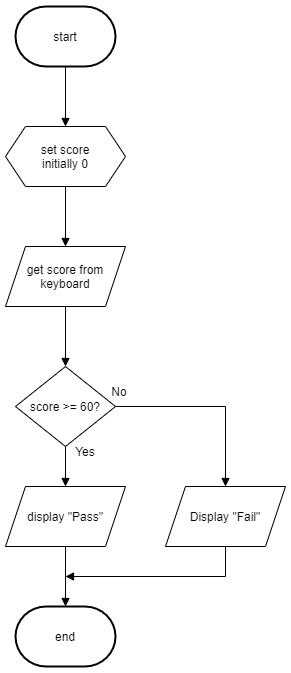
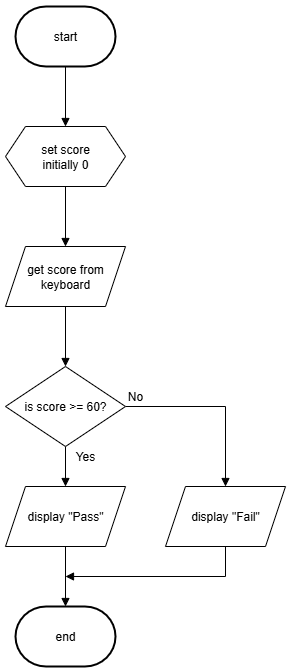
Updated

diff --git a/n5-cs/sdd/N5-SDD-Result/index2.md b/n5-cs/sdd/N5-SDD-Result/index2.md
@@ -1,33 +1,53 @@
-# N5 SDD - Test Result v2
+# N5 SDD - Test Result
 
 ## Introduction
 
-A user wants an automatic decision system that will classify a test score as either a '__Pass__' or a '__Fail__'.  Only scores from ___0___ to ___100___ are to be accepted.  A score of 60 or more is a pass, and anything else as a fail.
+A user wants an automatic decision system that will classify a test score as either a '__Pass__' or a '__Fail__'.  A score of 60 or more is a pass, and anything else as a fail.
+
+
+### Top level design (flowchart)
+
+![Flowchart](assets/fc2.png)
+
 
 ## Tasks
 
-1. Create a comprehensive test plan for the program.  Use OneNote.
+1. Implement a program that matches the design.
+2. Ensure the code is efficient.
 
-2. Implement a program that matches the flowchart below. Ensure the code is efficient.
 
-3. Use the test plan to check that the program works correctly.
+### Assumptions
 
-4. Ensure the code is readable by using:
+All scores are whole numbers.
 
-   1. Meanigful identifiers.
-   2. Internal commentary.
-   3. Whitespace.
 
 ## User Experience
 
-Below is an example of the expected user experience.
+Examples of the expected user interface are shown below, with possible input and output values.
 
 ```Python
-  Enter test score: 600 
-  Invalid: 0 to 100
-  Enter test score: 60   
-  Grade: Pass  
+Score Classifier
+----------------
+
+Enter test score: 75 
+
+Grade: Pass  
+
+================
 ```
 
-## Flowchart
-![Flowchart](assets/TestResult-Valid.png)
+
+```Python
+Score Classifier
+----------------
+
+Enter test score: 101
+
+Only score from 0 to 100 are valid.
+
+Enter test score: 11
+
+Grade: Fail  
+
+================
+```

diff --git a/n5-cs/sdd/N5-SDD-Result/README.md b/n5-cs/sdd/N5-SDD-Result/README.md
@@ -12,7 +12,7 @@ A user wants an automatic decision system that will classify a test score as eit
 
 ## Tasks
 
-1. Implement a program that matches the flowchart below.
+1. Implement a program that matches the design.
 2. Ensure the code is efficient.
 
 
